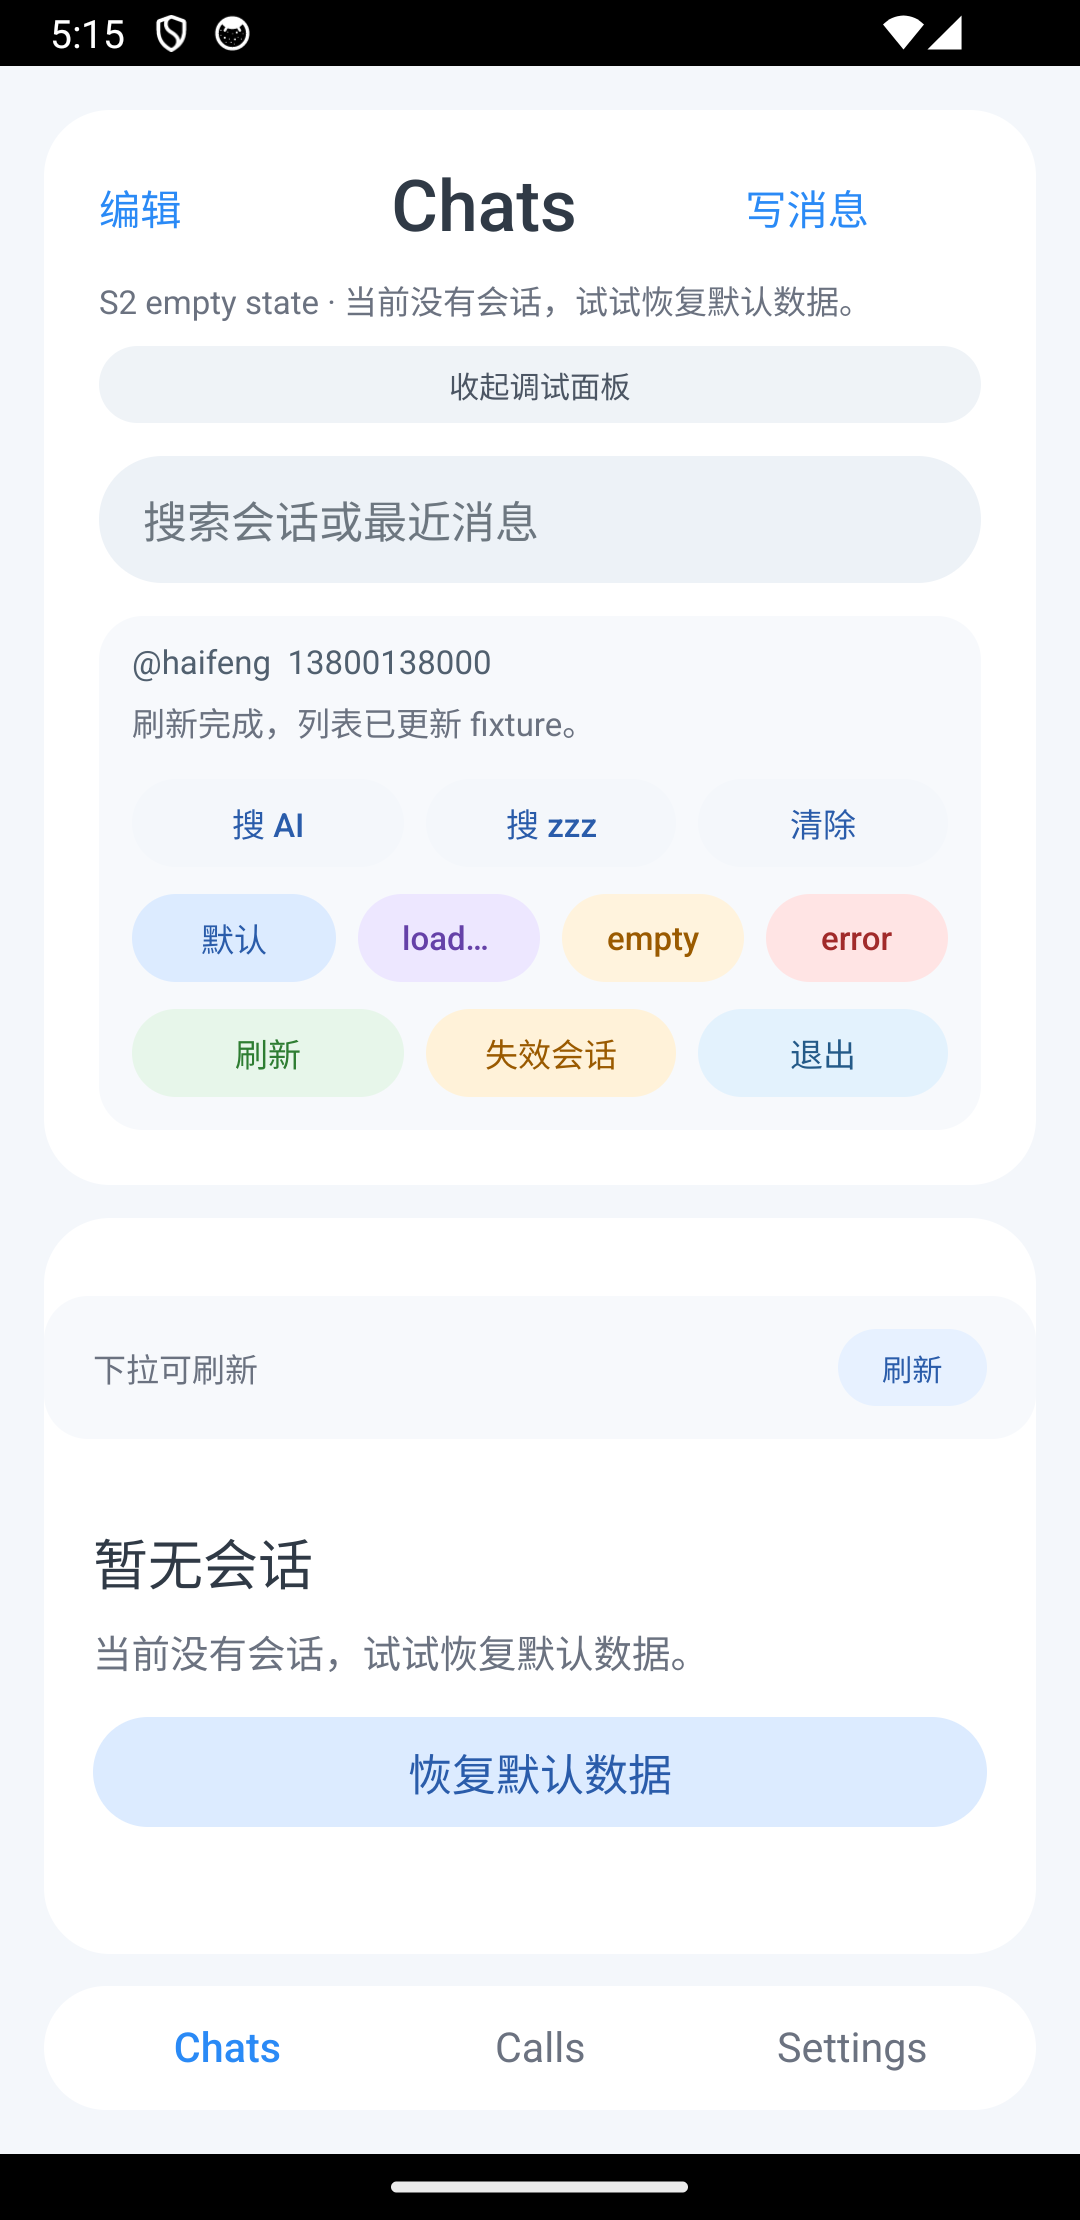
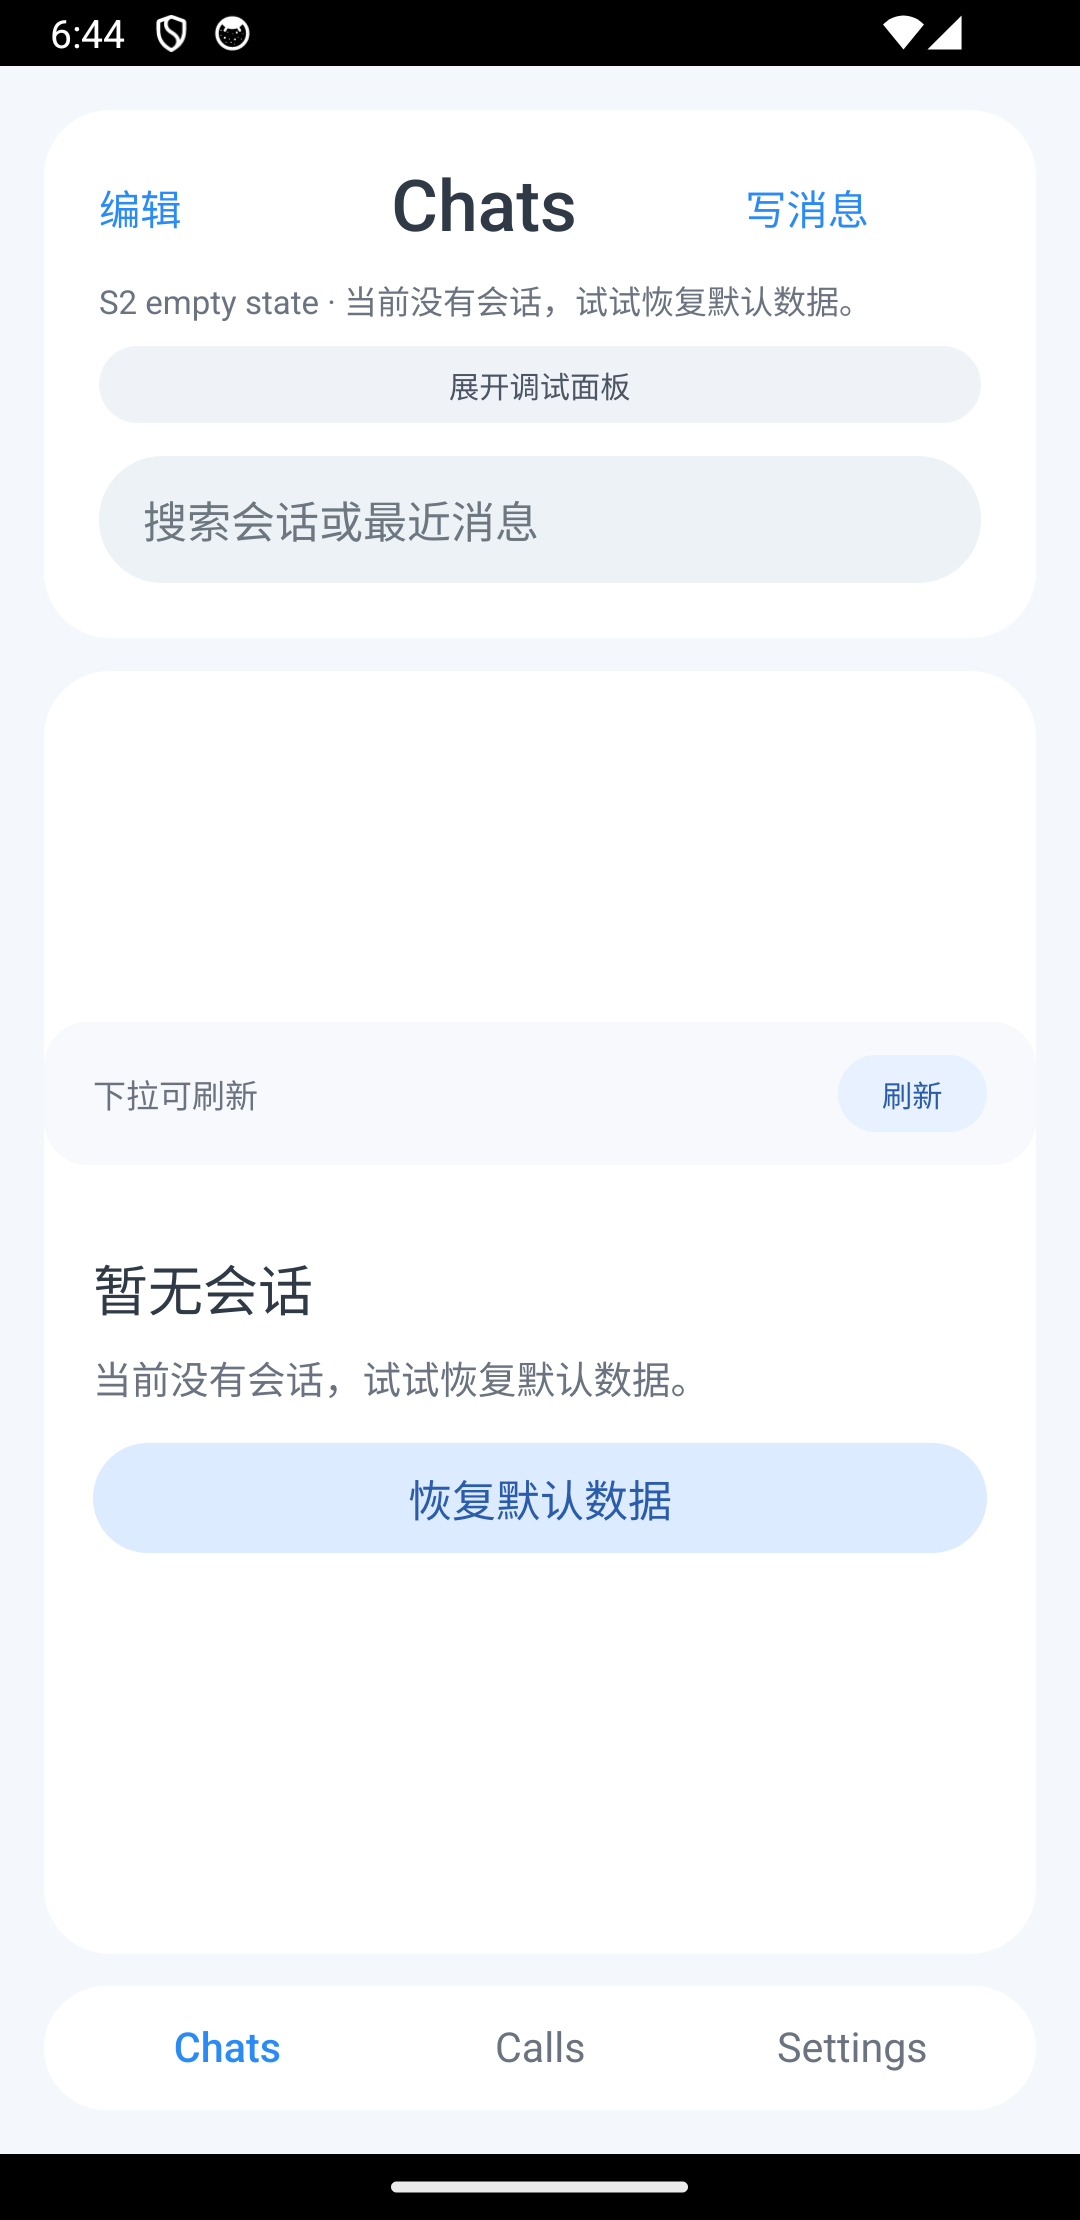
Finalize CJMP S2 clean empty/error evidence
Scope/Goal:
- Close CJMP S2 empty/error clean evidence and remove debug-panel contamination.

Key changes:
- CJMP app: add a panel close control and auto-collapse debug panel when switching list scenarios (apps/cjmp/telegram_compare_app/lib/index.cj).
- Evidence: replace empty/error screenshots with clean captures (framework-agnostic-assets/evaluation/acceptance-evidence/s2-chat-list/cjmp-fixed-chrome/).
- Docs: update S2 plan, parity matrix, and AI delivery log to mark clean evidence complete.

Spec/Design/Parity refs:
- framework-agnostic-spec/requirements/s2-chat-list.md
- framework-agnostic-spec/interface-design/s2-chat-list.md
- framework-agnostic-assets/evaluation/parity-matrix.md

Verification:
- cd apps/cjmp/telegram_compare_app && keels build apk --platform android-arm64 --debug
- adb -s emulator-5554 install -r android/app/build/outputs/apk/debug/app-debug.apk
- adb -s emulator-5554 shell am start -n com.example.telegram_compare_cjmp/.EntryEntryAbilityActivity
- adb -s emulator-5554 shell input tap <x> <y>
- adb -s emulator-5554 exec-out screencap -p > /tmp/cjmp-s2-*.png

Remaining:
- Figma handoff still blocked; continue monitoring CJMP self-render stability.

diff --git a/framework-agnostic-assets/evaluation/parity-matrix.md b/framework-agnostic-assets/evaluation/parity-matrix.md
@@ -3,7 +3,7 @@
 | Slice | Product Source | Acceptance | KMP | CJMP | AI Log | Issues | Evidence | Notes |
 |---|---|---|---|---|---|---|---|---|
 | S1 登录与会话恢复 | `framework-agnostic-spec/requirements/s1-login-session-restore.md` | accepted | accepted | accepted | `2026-03-15-S1-kmp-login-session-restore.md`, `2026-03-15-S1-design-backfill.md`, `2026-03-15-S1-device-acceptance-and-cjmp-alignment.md`, `2026-03-15-S1-cjmp-scope-deferral.md`, `2026-03-15-S1-cjmp-bootstrap-login-shell.md`, `2026-03-15-S1-S3-kmp-ui-viewport-refresh.md`, `2026-03-15-S1-S3-kmp-ui-device-recapture.md`, `2026-03-15-S1-S3-kmp-secondary-evidence-refresh.md` | `figma handoff blocked`, `cjmp self-render root-only uiautomator dump` | `S1-login-and-session-restore.md`, `2026-03-15-S1-figma-backfill-brief.md`, `framework-agnostic-assets/evaluation/acceptance-evidence/s1-login-session-restore/`, `framework-agnostic-assets/evaluation/acceptance-evidence/s1-login-session-restore/cjmp-bootstrap/`, `apps/cjmp/docs/s1-login-session-restore-plan.md`, `apps/cjmp/telegram_compare_app/`, `:shared-domain:allTests`, `:shared-data:allTests`, `:androidApp:assembleDebug`, `:androidApp:installDebug` | KMP 与 CJMP 均已完成 `S1` 验收。CJMP 当前把会话逻辑直接收进 `apps/cjmp/telegram_compare_app/lib/`，通过 `keels run`、app-private snapshot 持久化、冷启动恢复、失效回退、登出回退和 root-only UI tree 说明完成闭环；由于 CJMP 为自渲染页面，XML 不再作为必需主证据 |
-| S2 会话列表 | `framework-agnostic-spec/requirements/s2-chat-list.md` | accepted | accepted | in_progress | `2026-03-15-S2-S3-kmp-main-workflow.md`, `2026-03-15-S1-S3-kmp-ui-viewport-refresh.md`, `2026-03-15-S1-S3-kmp-ui-device-recapture.md`, `2026-03-15-S1-S3-kmp-secondary-evidence-refresh.md`, `2026-03-16-S2-cjmp-safe-shell.md`, `2026-03-16-S2-cjmp-fixed-chrome.md` | `figma handoff blocked`, `cjmp self-render render-node instability` | `S2-chat-list.md`, `framework-agnostic-assets/evaluation/acceptance-evidence/s2-chat-list/`, `framework-agnostic-assets/evaluation/acceptance-evidence/s2-chat-list/cjmp-safe-shell/`, `framework-agnostic-assets/evaluation/acceptance-evidence/s2-chat-list/cjmp-fixed-chrome/`, `2026-03-15-S2-chat-list-repo-handoff-brief.md`, `apps/kmp/docs/s2-chat-list-plan.md`, `apps/cjmp/docs/s2-chat-list-plan.md`, `framework-agnostic-assets/evaluation/ai-delivery-logs/2026-03-16-S2-cjmp-safe-shell.md`, `framework-agnostic-assets/evaluation/ai-delivery-logs/2026-03-16-S2-cjmp-fixed-chrome.md`, `:shared-domain:allTests`, `:shared-data:allTests`, `:androidApp:assembleDebug`, `:androidApp:installDebug`, `keels build apk --platform android-arm64 --debug`, `adb install -r app-debug.apk` | KMP `S2` 已 accepted。CJMP 侧已补齐 default/search/refreshing/empty/error/entry placeholder 的设备证据，其中 error 状态为手工验证并留存截图；目前仍缺一个 debug 面板收起后的 empty/error 纯净截图，且自渲染稳定性仍需继续观察 |
+| S2 会话列表 | `framework-agnostic-spec/requirements/s2-chat-list.md` | accepted | accepted | in_progress | `2026-03-15-S2-S3-kmp-main-workflow.md`, `2026-03-15-S1-S3-kmp-ui-viewport-refresh.md`, `2026-03-15-S1-S3-kmp-ui-device-recapture.md`, `2026-03-15-S1-S3-kmp-secondary-evidence-refresh.md`, `2026-03-16-S2-cjmp-safe-shell.md`, `2026-03-16-S2-cjmp-fixed-chrome.md` | `figma handoff blocked`, `cjmp self-render render-node instability` | `S2-chat-list.md`, `framework-agnostic-assets/evaluation/acceptance-evidence/s2-chat-list/`, `framework-agnostic-assets/evaluation/acceptance-evidence/s2-chat-list/cjmp-safe-shell/`, `framework-agnostic-assets/evaluation/acceptance-evidence/s2-chat-list/cjmp-fixed-chrome/`, `2026-03-15-S2-chat-list-repo-handoff-brief.md`, `apps/kmp/docs/s2-chat-list-plan.md`, `apps/cjmp/docs/s2-chat-list-plan.md`, `framework-agnostic-assets/evaluation/ai-delivery-logs/2026-03-16-S2-cjmp-safe-shell.md`, `framework-agnostic-assets/evaluation/ai-delivery-logs/2026-03-16-S2-cjmp-fixed-chrome.md`, `:shared-domain:allTests`, `:shared-data:allTests`, `:androidApp:assembleDebug`, `:androidApp:installDebug`, `keels build apk --platform android-arm64 --debug`, `adb install -r app-debug.apk` | KMP `S2` 已 accepted。CJMP 侧已补齐 default/search/refreshing/empty/error/entry placeholder 的设备证据，fixed chrome 与 viewport-only scroll 证据齐全；当前仍受限于缺少 Figma handoff 与自渲染稳定性观察 |
 | S3 单聊详情与文本发送 | `framework-agnostic-spec/requirements/s3-chat-detail-and-send.md` | accepted | accepted | deferred | `2026-03-15-S2-S3-kmp-main-workflow.md`, `2026-03-15-S1-S3-kmp-ui-viewport-refresh.md`, `2026-03-15-S1-S3-kmp-ui-device-recapture.md`, `2026-03-15-S1-S3-kmp-secondary-evidence-refresh.md` | `figma handoff blocked`, `cjmp deferred by scope` | `S3-chat-detail-and-send.md`, `framework-agnostic-assets/evaluation/acceptance-evidence/s3-chat-detail-and-send/`, `2026-03-15-S3-chat-detail-repo-handoff-brief.md`, `apps/kmp/docs/s3-chat-detail-and-send-plan.md`, `:shared-domain:allTests`, `:shared-data:allTests`, `:androidApp:assembleDebug`, `:androidApp:installDebug` | KMP `S3` 已完成 detail load / send success / send failed / retry / return-to-list 的设备侧验收；当前 fixed chrome + scoped message scroll UI 的 failed / retry secondary evidence 也已补齐，`S1-S3` 的 KMP 主用户工作流继续闭环 |
 | S4 本地缓存与离线恢复 | `framework-agnostic-spec/requirements/s4-local-cache-and-offline-restore.md` | accepted | accepted | deferred | `2026-03-15-S4-kmp-cache-offline-acceptance.md` | `figma handoff blocked`, `cjmp deferred by scope` | `S4-local-cache-and-offline-restore.md`, `framework-agnostic-assets/evaluation/acceptance-evidence/s4-local-cache-and-offline-restore/`, `framework-agnostic-spec/interface-design/s4-local-cache-and-offline-restore.md`, `2026-03-15-S4-cache-offline-repo-handoff-brief.md`, `apps/kmp/docs/s4-local-cache-and-offline-restore-plan.md`, `:shared-domain:allTests`, `:shared-data:allTests`, `:androidApp:assembleDebug`, `:androidApp:installDebug` | KMP 已完成冷启动恢复列表、恢复详情、最近消息持久化、清空缓存回退和 logout 清缓存的设备侧验收；当前 `S1-S4` 的 KMP 核心聊天工作流已闭环，CJMP 继续 deferred |
 | S8 AI 助手增强能力 | `framework-agnostic-spec/requirements/telegram-mvp.md` | pending | backlog | backlog | pending | none | not started | 先等基础聊天闭环 |

diff --git a/framework-agnostic-assets/evaluation/ai-delivery-logs/2026-03-16-S2-cjmp-fixed-chrome.md b/framework-agnostic-assets/evaluation/ai-delivery-logs/2026-03-16-S2-cjmp-fixed-chrome.md
@@ -28,9 +28,9 @@
 | 1 | 通过 ADB 操作 CJMP S2 列表 | completed | 点击行与刷新按钮已可触发 |
 | 2 | 捕获 refreshing 设备截图 | completed | `s2-cjmp-refreshing.png` |
 | 3 | 捕获 entry placeholder 设备截图 | completed | `s2-cjmp-entry-placeholder.png` |
-| 4 | 切换 empty fixture 并截图 | completed | debug 面板仍可见 |
-| 5 | 切换 error fixture 并截图 | completed | error 状态为手工验证并记录 |
-| 6 | 回写 parity 与 evidence README | completed | 标注 error 为手动验证 |
+| 4 | 切换 empty fixture 并截图 | completed | 自动收起 debug 面板，补齐干净证据 |
+| 5 | 切换 error fixture 并截图 | completed | 自动收起 debug 面板，补齐干净证据 |
+| 6 | 回写 parity 与 evidence README | completed | 移除手动验证标注 |
 
 ## Files And Evidence
 
@@ -50,12 +50,12 @@
   - `AC-S2-6`: empty / error 设备侧证据补齐（error 为手工验证）。
   - `AC-S2-7`: entry placeholder 设备侧证据补齐。
 - Criteria still open:
-  - empty/error 仍缺 debug 面板收起后的纯净截图。
+  - 无。
 
 ## Outcome
 
 - Completed:
   - S2 fixed chrome 的 refreshing / entry placeholder / empty / error 证据归档完成。
-  - parity matrix 与 evidence README 已注明 error 为手动验证。
+  - empty/error 的干净截图已补齐，parity 与 README 同步更新。
 - Remaining:
-  - 继续补一组 debug 面板收起的 empty/error 证据截图。
+  - 无。

diff --git a/framework-agnostic-assets/evaluation/acceptance-evidence/s2-chat-list/cjmp-fixed-chrome/README.md b/framework-agnostic-assets/evaluation/acceptance-evidence/s2-chat-list/cjmp-fixed-chrome/README.md
@@ -8,9 +8,8 @@ Captured states:
 - `s2-cjmp-search-infra.png`: search keyword `infra` filters list with result count banner.
 - `s2-cjmp-refreshing.png`: refresh indicator visible while list remains scrollable.
 - `s2-cjmp-entry-placeholder.png`: tap on list row triggers S3 entry placeholder banner.
-- `s2-cjmp-empty.png`: empty fixture with recovery CTA (debug panel still visible).
-- `s2-cjmp-error.png`: error fixture verified manually; debug panel remained expanded during capture.
+- `s2-cjmp-empty.png`: empty fixture with recovery CTA.
+- `s2-cjmp-error.png`: error fixture with retry CTA.
 
 Known gaps in this capture set:
-- `empty` / `error` / `refreshing` now captured; error state was verified manually and captured with debug panel visible.
-- Debug panel is still visible in empty/error captures; a clean (collapsed) evidence pass is pending.
+- No remaining gaps in this capture set.

diff --git a/apps/cjmp/docs/s2-chat-list-plan.md b/apps/cjmp/docs/s2-chat-list-plan.md
@@ -33,8 +33,7 @@
 - 当前 debug-only 控件仍然占据首屏，尚未压缩到低干扰区域。
 - 列表行尚未恢复 Telegram 风格的头像 / 时间 / 未读徽标 / 静音状态密度，只先保证 safe shell 可见。
 - pull-to-refresh 还没有落成真实列表 viewport 内手势，只保留了 debug-only 手动刷新入口。
-- `search / empty / error / refreshing / entry placeholder` 的设备侧归档已补齐；error 状态为手工验证并记录。
-- 仍缺 debug 面板收起后的 empty/error 纯净截图。
+- `search / empty / error / refreshing / entry placeholder` 的设备侧归档已补齐，empty/error 已补干净截图。
 
 ## Delivery Order
 
